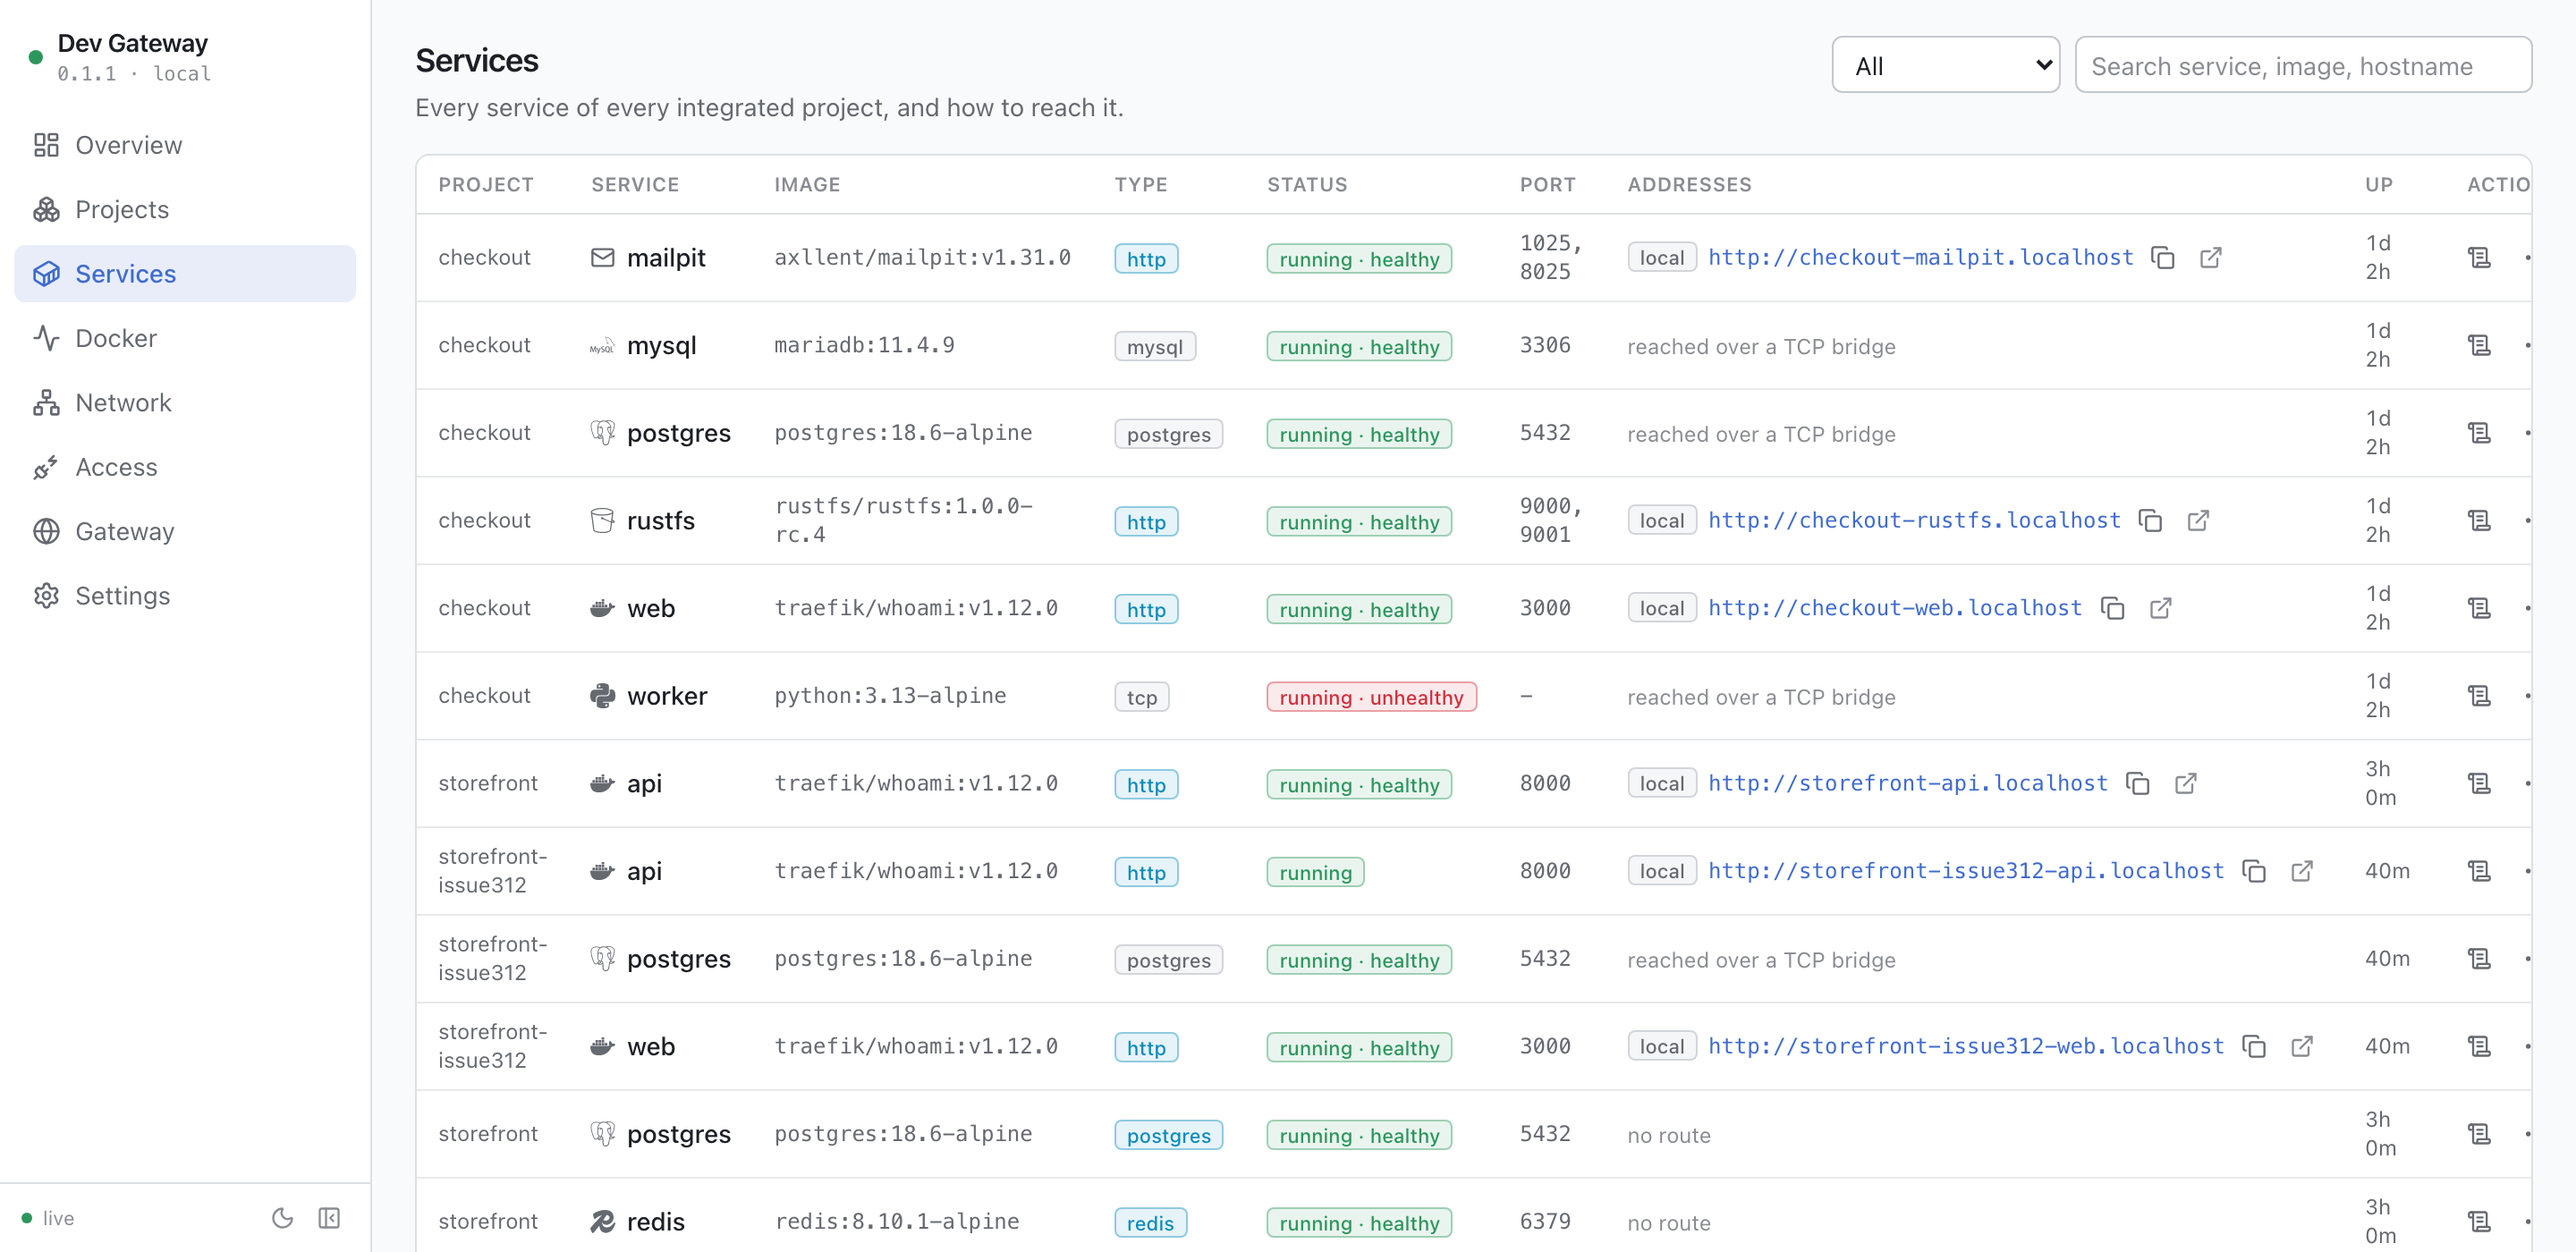
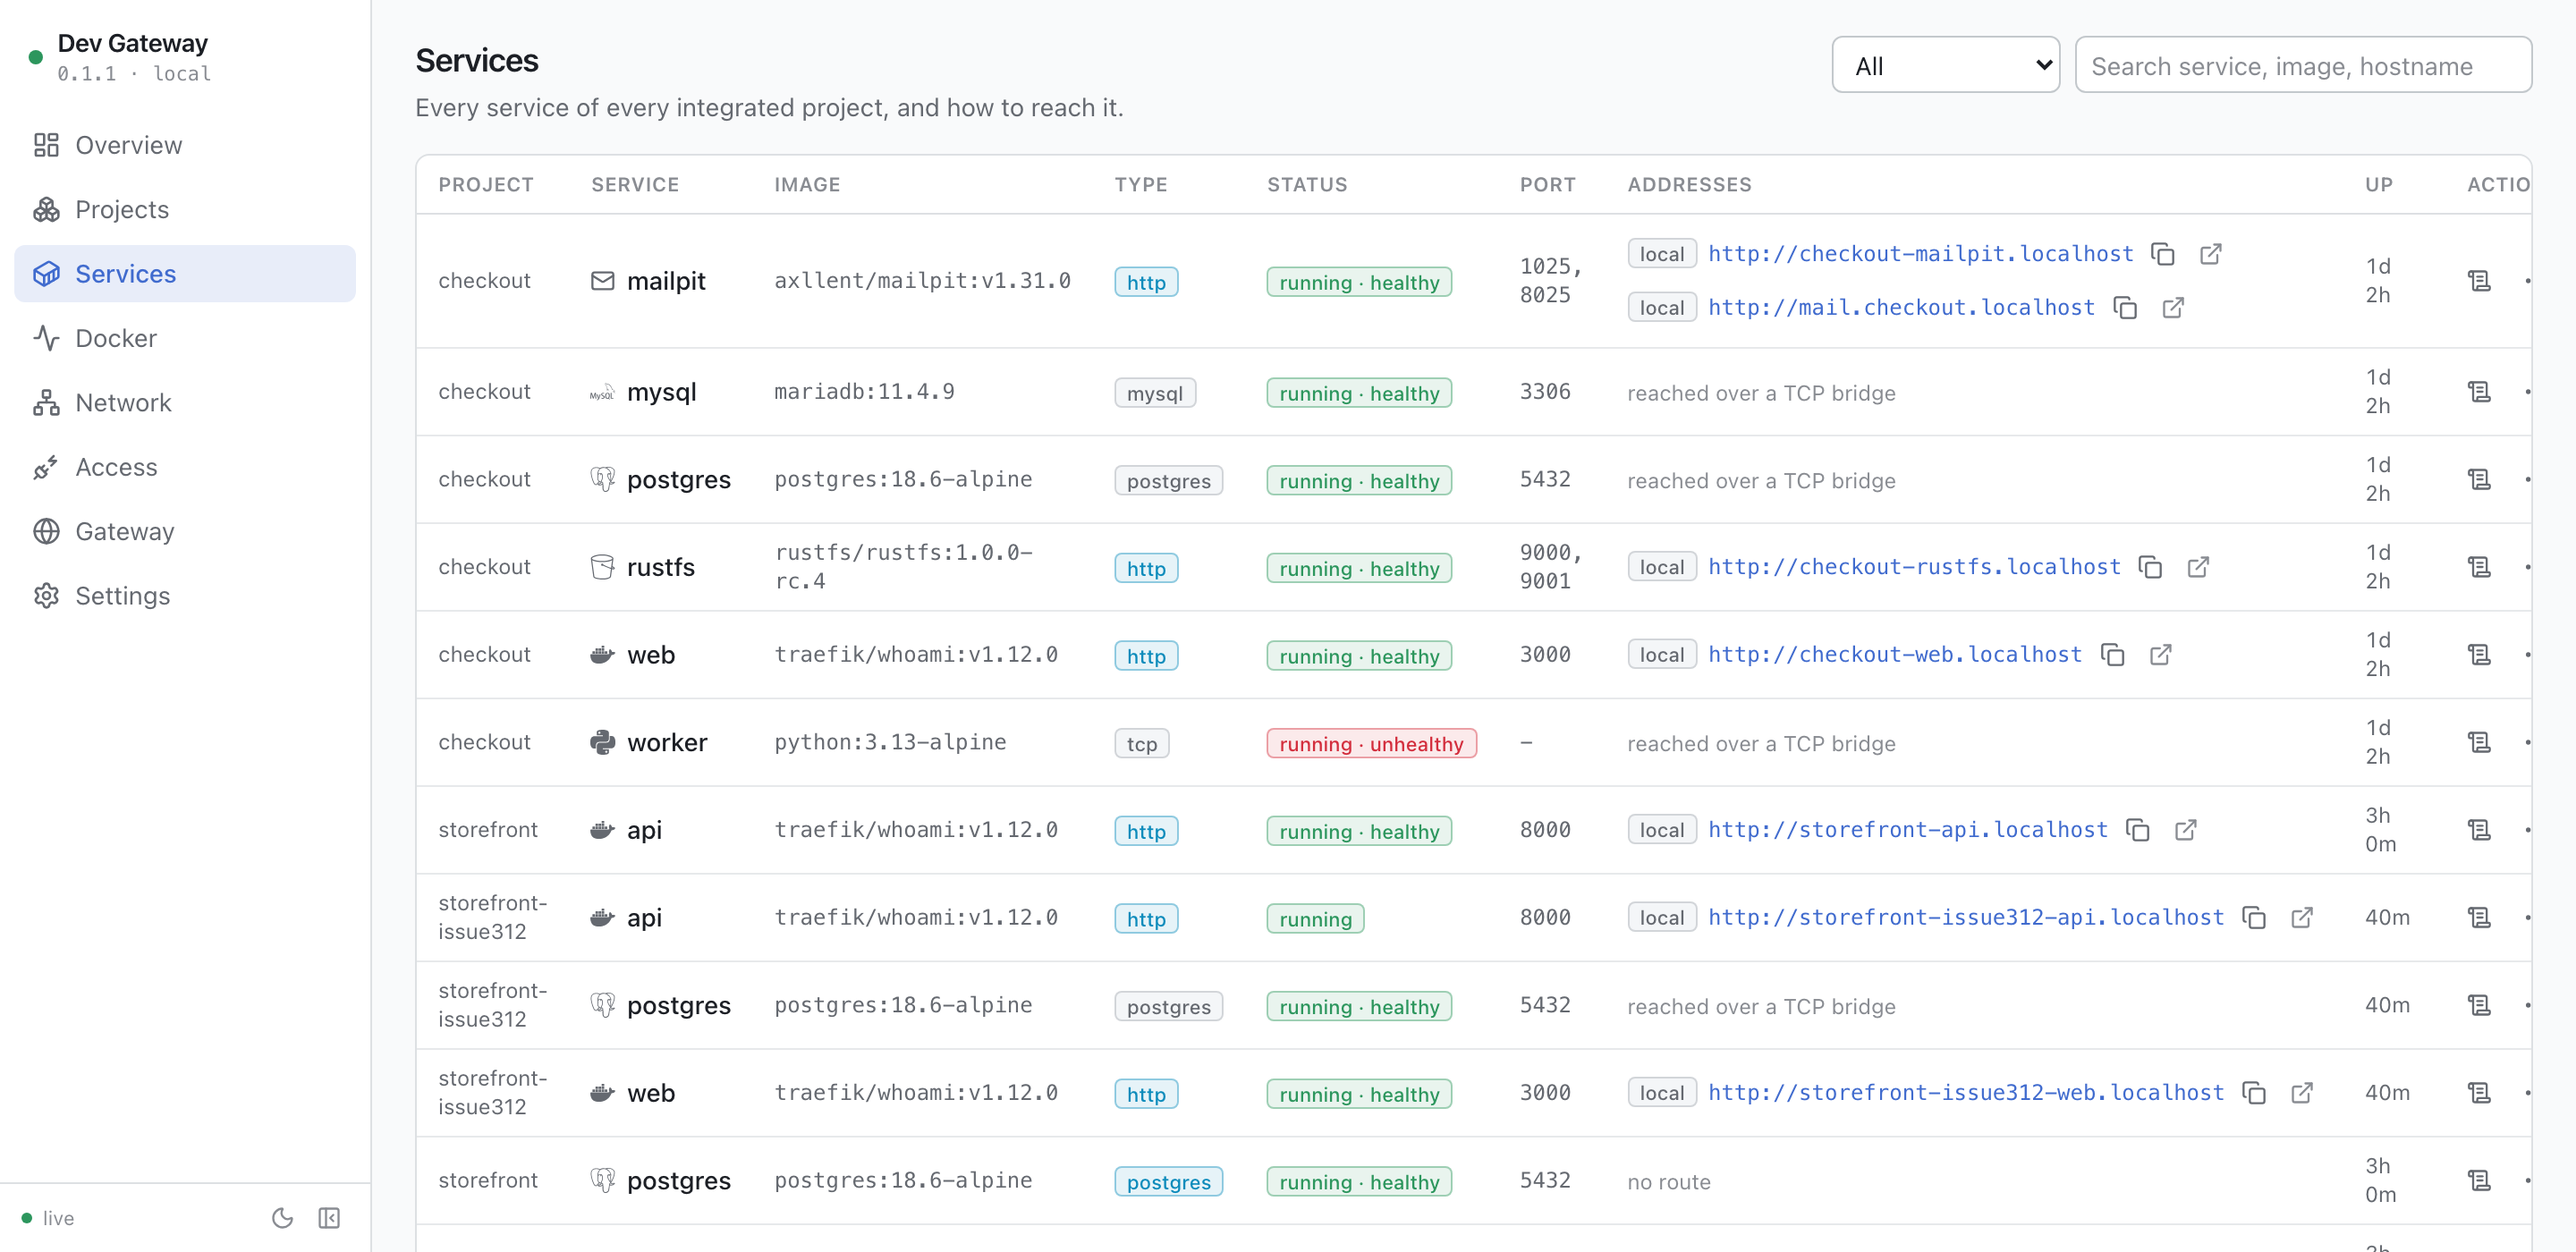
docs(ui): document service endpoint grouping

diff --git a/docs/web-ui.md b/docs/web-ui.md
@@ -309,6 +309,14 @@ shared network. The worktree is shown when the Compose working directory
 disagrees with the project name, which is what
 [`dev-gateway namespace`](monorepos.md) produces.
 
+Each service row owns its endpoints, so several local, VPN or public addresses
+remain grouped with the container that serves them. The row also keeps image,
+kind, ports, uptime, state, logs, details and lifecycle actions. A database or
+cache points to the Access page instead of leaving an empty URL cell; a stopped
+service hides stale endpoints, and an HTTP service with routing enabled but no
+discovered URL is called out as a routing problem. The rows wrap rather than
+turning the project card into a horizontally scrolling table.
+
 ![The Projects page: checkout with an unhealthy worker, storefront with four healthy services, and a second worktree of storefront running beside it, each with its own URLs](../.github/images/panel-projects.png)
 
 #### What the environment is running
